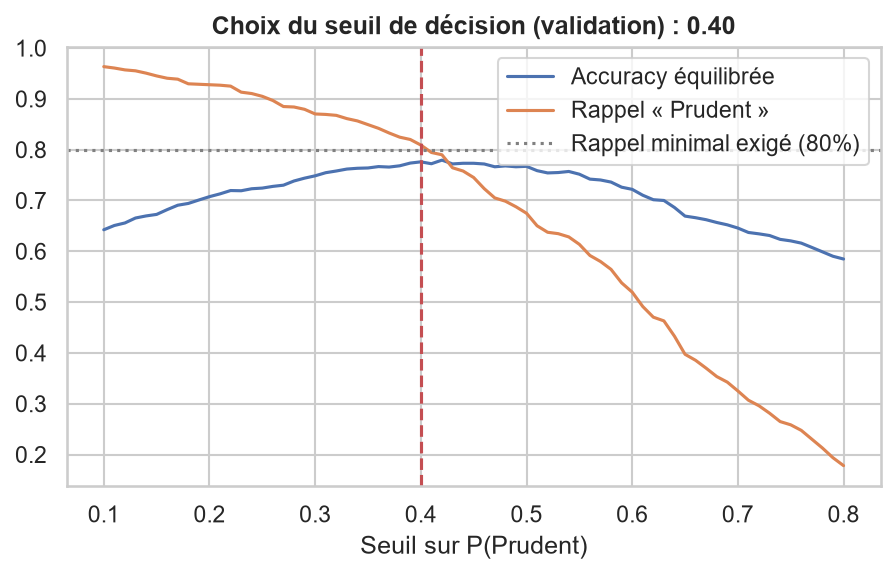
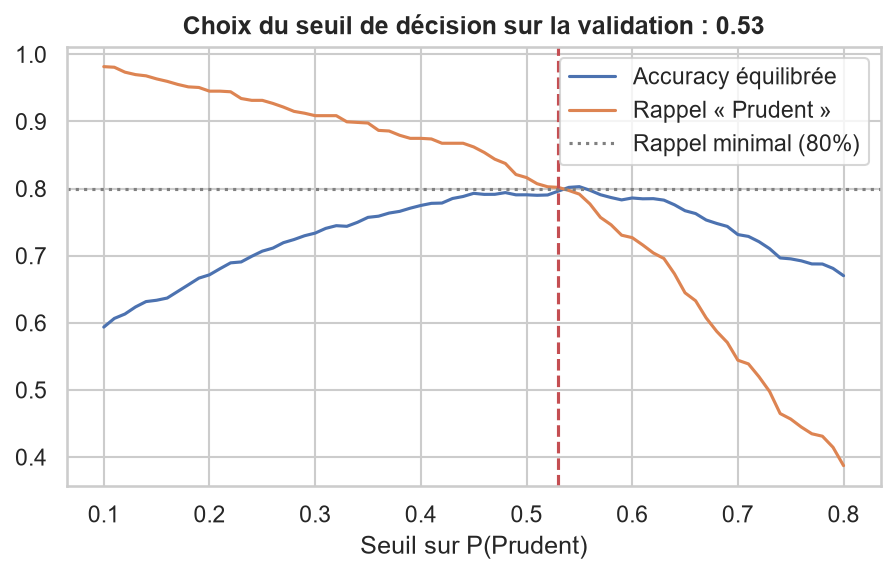
Notebook v4 : section 3b agent Profil (SMOTE/ADASYN, choix du modele, seuil, courbe d'apprentissage, test, validation externe) ; SHAP classe 0

diff --git a/tools/sections/s03_profil_b.py b/tools/sections/s03_profil_b.py
@@ -1,0 +1,153 @@
+from cellules import code, md
+
+CELLS = [
+md(r"""
+### 3.6 Classes déséquilibrées : poids de classes, SMOTE et ADASYN (cours 1)
+Avec 1/3 de Prudents, un modèle non corrigé favorise la classe majoritaire et **rate des Prudents**, l'erreur la plus grave pour un conseiller.
+- **Poids de classes** : chaque erreur sur la classe minoritaire compte davantage dans la fonction de coût.
+- **SMOTE** : crée des exemples synthétiques de la classe minoritaire par interpolation entre un point et l'un de ses k voisins : $x_{new} = x_i + \lambda\,(x_{voisin} - x_i)$, avec $\lambda \sim U(0,1)$.
+- **ADASYN** : variante de SMOTE qui génère davantage d'exemples là où la classe minoritaire est difficile à apprendre.
+
+Le rééchantillonnage est placé dans un `imblearn.Pipeline` : il n'est appliqué **qu'aux plis d'entraînement**, jamais à la validation ni au test (sinon fuite de données). On compare les 4 stratégies sur la logistique et LightGBM, avec les hyperparamètres trouvés en 3.5.
+"""),
+code(r"""
+def strip_weights(model):
+    m = clone(model)
+    if hasattr(m, "class_weight"):
+        m.set_params(class_weight=None)
+    return m
+
+
+imb_rows = {}
+for mname in ("Régression logistique", "LightGBM"):
+    base_m = profile_fitted[mname].named_steps["m"]
+    for strat, steps in (("aucune correction", [("m", strip_weights(base_m))]),
+                         ("poids de classes", [("m", clone(base_m))]),
+                         ("SMOTE", [("s", SMOTE(random_state=RANDOM_STATE)), ("m", strip_weights(base_m))]),
+                         ("ADASYN", [("s", ADASYN(random_state=RANDOM_STATE)), ("m", strip_weights(base_m))])):
+        p = Pipeline([("pre", pre_profile)] + steps).fit(Xp_tr, yp_tr)
+        imb_rows[(mname, strat)] = eval_profile(p, Xp_va, yp_va)
+imb_tab = pd.DataFrame(imb_rows).T
+imb_tab.to_csv(RESULTS_DIR / "agent_profil_desequilibre.csv")
+RESULTS["profil_desequilibre"] = imb_tab
+imb_tab[["ROC-AUC", "Rappel Prudent", "Précision Prudent", "F1 macro", "Balanced acc."]]
+"""),
+md(r"""
+**Lecture** : les 4 stratégies donnent presque la **même AUC**, car l'AUC mesure la qualité du **classement** des clients, indépendamment du seuil. Ce qui change, c'est le compromis rappel / précision au seuil de 0,5 : sans correction, environ 40 % des Prudents sont manqués ; avec les poids de classes, SMOTE ou ADASYN, le rappel des Prudents dépasse 75-80 %. Ces trois corrections ont un effet comparable à un simple **déplacement du seuil de décision** (3.8). On garde les poids de classes, la solution la plus simple, qui ne crée aucune donnée artificielle.
+
+### 3.7 Choix du modèle (règle fixée en 3.5)
+"""),
+code(r"""
+learned = profile_comparison.drop(index=[i for i in profile_comparison.index if i.startswith("Baseline")])
+best_auc = learned["ROC-AUC"].max()
+logit_auc = learned.loc["Régression logistique", "ROC-AUC"]
+best_profile_name = "Régression logistique" if logit_auc >= best_auc - 0.005 else learned["ROC-AUC"].idxmax()
+print(f"Meilleure AUC de validation : {best_auc:.4f} ({learned['ROC-AUC'].idxmax()}) | "
+      f"logistique : {logit_auc:.4f}")
+print("Modèle retenu pour l'agent Profil :", best_profile_name)
+"""),
+md(r"""
+### 3.8 Seuil de décision (choisi sur la validation)
+Règle métier : ne pas repérer un client prudent est l'erreur la plus coûteuse. On exige un **rappel d'au moins 80 %** sur la classe Prudent, puis on maximise l'accuracy équilibrée.
+"""),
+code(r"""
+p_val = profile_fitted[best_profile_name].predict_proba(Xp_va)[:, 0]
+yv_prud = (yp_va.values == 0)
+grid_t = np.round(np.arange(0.10, 0.81, 0.01), 2)
+bal_t = np.array([balanced_accuracy_score(yv_prud, p_val >= t) for t in grid_t])
+rec_t = np.array([recall_score(yv_prud, p_val >= t) for t in grid_t])
+ok = rec_t >= PRUDENT_RECALL_MIN
+THRESH = float(grid_t[ok][np.argmax(bal_t[ok])]) if ok.any() else float(grid_t[np.argmax(rec_t)])
+plt.figure(figsize=(7, 3.8))
+plt.plot(grid_t, bal_t, label="Accuracy équilibrée")
+plt.plot(grid_t, rec_t, label="Rappel « Prudent »")
+plt.axhline(PRUDENT_RECALL_MIN, color="grey", ls=":", label=f"Rappel minimal ({PRUDENT_RECALL_MIN:.0%})")
+plt.axvline(THRESH, color="r", ls="--")
+plt.xlabel("Seuil sur P(Prudent)")
+plt.legend()
+plt.title(f"Choix du seuil de décision sur la validation : {THRESH:.2f}")
+savefig("07b_profil_seuil")
+plt.show()
+"""),
+md(r"""
+### 3.9 Diagnostic biais / variance : courbe d'apprentissage (cours 1)
+On trace l'AUC sur l'entraînement ($J_{train}$) et en validation croisée ($J_{cv}$) quand la taille de l'entraînement augmente.
+- Les deux courbes basses et proches → **biais élevé** (sous-apprentissage) : il faudrait un modèle plus riche ou de meilleures variables.
+- Un grand écart entre les deux → **variance élevée** (surapprentissage) : il faudrait plus de données ou plus de régularisation.
+"""),
+code(r"""
+sizes, sc_tr, sc_cv = learning_curve(clone(profile_fitted[best_profile_name]), Xp_tr, yp_tr, groups=gp_tr, cv=cv_p,
+                                     train_sizes=np.linspace(0.1, 1.0, 4 if QUICK_RUN else 6),
+                                     scoring="roc_auc", n_jobs=N_JOBS)
+plt.figure(figsize=(7, 4))
+plt.plot(sizes, sc_tr.mean(1), "o-", label="Entraînement")
+plt.plot(sizes, sc_cv.mean(1), "o-", label="Validation croisée")
+plt.fill_between(sizes, sc_cv.mean(1) - sc_cv.std(1), sc_cv.mean(1) + sc_cv.std(1), alpha=.2)
+plt.xlabel("Nombre de lignes d'entraînement")
+plt.ylabel("AUC")
+plt.legend()
+plt.title(f"Courbe d'apprentissage – {best_profile_name}")
+savefig("07c_profil_courbe_apprentissage")
+plt.show()
+print(f"Écart final entraînement – validation : {sc_tr.mean(1)[-1] - sc_cv.mean(1)[-1]:.3f}")
+"""),
+md(r"""
+### 3.10 Évaluation unique sur le test
+Étape 4 de la méthode du cours : on ré-entraîne le modèle retenu sur **entraînement + validation**, avec les hyperparamètres choisis, puis on l'évalue **une seule fois** sur le test. La ligne « pondéré WGT » applique les poids d'enquête du SCF, qui rendent l'échantillon représentatif de la population américaine.
+"""),
+code(r"""
+best_profile = clone(profile_fitted[best_profile_name]).fit(pd.concat([Xp_tr, Xp_va]), pd.concat([yp_tr, yp_va]))
+profile_test = pd.DataFrame({
+    f"{best_profile_name} (seuil 0,5)": eval_profile(best_profile, Xp_te, yp_te),
+    f"{best_profile_name} (seuil {THRESH:.2f})": eval_profile(best_profile, Xp_te, yp_te, THRESH),
+    f"{best_profile_name} (seuil {THRESH:.2f}, pondéré WGT)": eval_profile(best_profile, Xp_te, yp_te, THRESH,
+                                                                           w_p[m_te].values),
+    "Baseline – classe majoritaire": eval_profile(profile_fitted["Baseline – classe majoritaire"], Xp_te, yp_te),
+}).T
+profile_test.to_csv(RESULTS_DIR / "agent_profil_test.csv")
+RESULTS["profil_test"] = profile_test
+display(profile_test)
+
+p_te_prud = best_profile.predict_proba(Xp_te)[:, 0]
+pred_te_p = np.where(p_te_prud >= THRESH, 0, 1)
+fig, axes = plt.subplots(1, 2, figsize=(13, 5))
+ConfusionMatrixDisplay.from_predictions(yp_te, pred_te_p, display_labels=PROFILE_ML_CLASSES, normalize="true",
+                                        cmap="Blues", ax=axes[0], values_format=".2f")
+axes[0].set_title(f"Matrice de confusion normalisée (test, seuil {THRESH:.2f})")
+RocCurveDisplay.from_predictions((yp_te == 0).astype(int), p_te_prud, name=best_profile_name, ax=axes[1])
+axes[1].plot([0, 1], [0, 1], "k--")
+axes[1].set_title("Courbe ROC – classe Prudent (test)")
+plt.tight_layout()
+savefig("07_profil_confusion_roc")
+plt.show()
+"""),
+md(r"""
+### 3.11 Validation externe sur une autre vague de l'enquête (SCF 2019)
+Test plus exigeant : le modèle entraîné sur 2022, **sans ré-entraînement ni nouveau seuil**, est appliqué aux ménages de l'enquête **2019** (échantillon indépendant, interrogé avant le COVID). Les montants de 2019 sont convertis en dollars de 2022 avec l'indice des prix (CPI) de la FRED.
+"""),
+code(r"""
+try:
+    scf_ext = dl.download_scf(year=SCF_EXTERNAL_YEAR)
+except Exception as exc:
+    scf_ext = None
+    print("⚠ SCF 2019 indisponible, validation externe ignorée :", exc)
+if scf_ext is not None:
+    X_ext, y_ext, g_ext, w_ext, rep_ext = prepare_scf(scf_ext)
+    cpi = fred_raw["CPIAUCSL"].dropna()
+    infl = cpi.loc[str(SCF_YEAR)].mean() / cpi.loc[str(SCF_EXTERNAL_YEAR)].mean()
+    for c in [c for c in MONEY_FEATURES if c in X_ext.columns]:
+        X_ext[c] = X_ext[c] * infl
+    X_ext = X_ext.reindex(columns=X_p.columns)
+    y_ext_int = y_ext.astype(str).map(CLS_TO_INT).astype(int)
+    profil_externe = pd.DataFrame({
+        f"Test interne – SCF {SCF_YEAR}": eval_profile(best_profile, Xp_te, yp_te, THRESH),
+        f"Validation externe – SCF {SCF_EXTERNAL_YEAR}": eval_profile(best_profile, X_ext, y_ext_int, THRESH),
+        f"Validation externe – SCF {SCF_EXTERNAL_YEAR} (pondéré WGT)": eval_profile(best_profile, X_ext, y_ext_int, THRESH,
+                                                                                     w_ext.values),
+    }).T
+    profil_externe.to_csv(RESULTS_DIR / "agent_profil_validation_externe.csv")
+    RESULTS["profil_externe"] = profil_externe
+    display(profil_externe)
+chrono("3. Agent Profil (modèles, test, validation externe)")
+"""),
+]

diff --git a/src/explain.py b/src/explain.py
@@ -71,13 +71,15 @@ def shap_values(pipe, explainer, X: pd.DataFrame, class_idx: int = 1, group: boo
     Xt = _transform(pre_steps, X)
     sv = explainer(Xt)
     vals = sv.values
-    if vals.ndim == 3:
+    base = np.asarray(sv.base_values)
+    if vals.ndim == 3:                       # une sortie par classe (ex. forêt aléatoire scikit-learn)
         vals = vals[:, :, class_idx]
+        base = base[..., class_idx] if base.ndim > 1 else base
+    elif class_idx == 0:                     # sortie unique = classe 1 (log-odds) : on inverse pour la classe 0
+        vals, base = -vals, -base
     df = pd.DataFrame(vals, columns=Xt.columns, index=X.index)
     if group:
         df = df.T.groupby([original_name(c, list(X.columns)) for c in df.columns]).sum().T
-    base = sv.base_values
-    base = np.asarray(base)[..., class_idx] if np.ndim(base) > 1 else np.asarray(base)
     df.attrs["base_value"] = float(np.mean(base))
     return df
 
